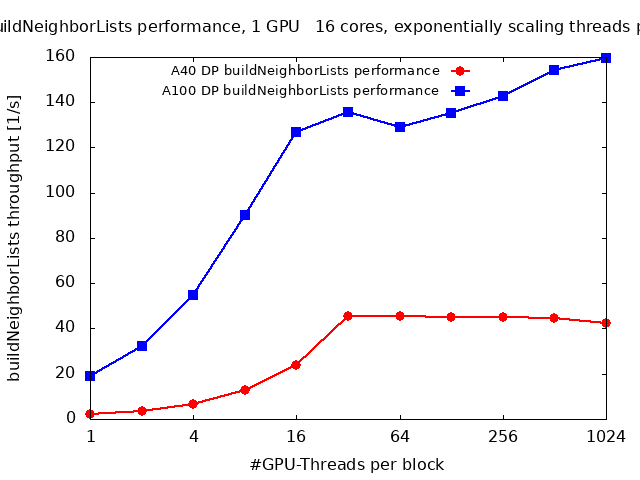
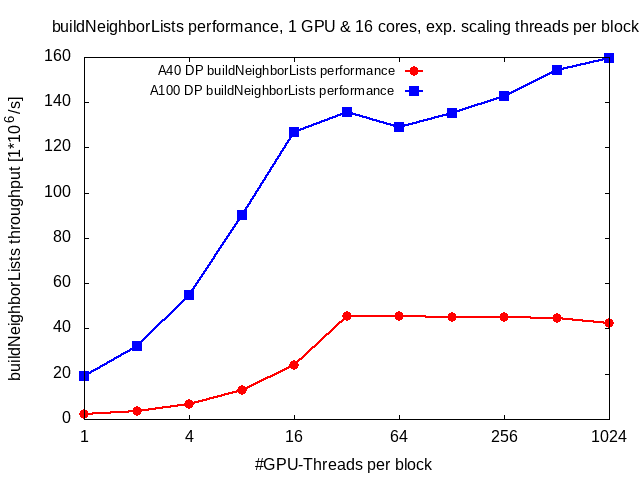
Added a comparison showing different scaling behaviour between force computation and building neighbor lists to MB's second presentation

diff --git a/log/MB/second_presentation/Second_Presentation.tex b/log/MB/second_presentation/Second_Presentation.tex
@@ -745,6 +745,18 @@ Time Total Time        Count   Min       Max         Operation
     \end{center}
 \end{frame}
 
+\begin{frame}{Neighbor List construction performance}{Finding peak performance}
+    \begin{center}
+        \includegraphics[width=0.7\linewidth]{../resources/scaling/exponential_thread_scaling/neigh_perf_with_force/buiNeiList_perf.png}
+    \end{center}
+\end{frame}
+
+\begin{frame}{Force computation performance}{Finding peak performance}
+    \begin{center}
+        \includegraphics[width=0.7\linewidth]{../resources/scaling/exponential_thread_scaling/neigh_perf_with_force/force_perf.png}
+    \end{center}
+\end{frame}
+
 \section{Before $\longleftrightarrow$ After \newline Neighborhood calculation porting}
 
 \begin{frame}{Performance comparison}{A40 Before $\longleftrightarrow$ After}
